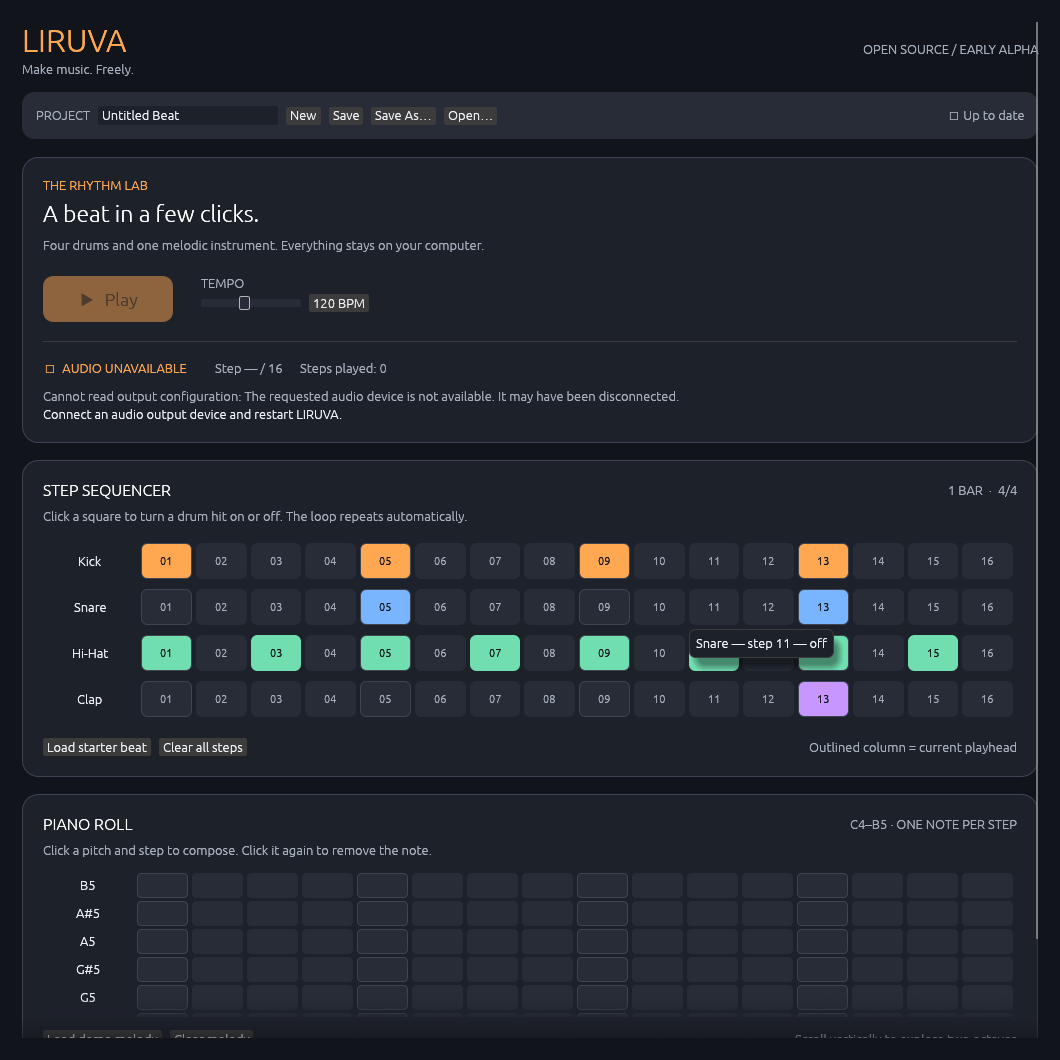
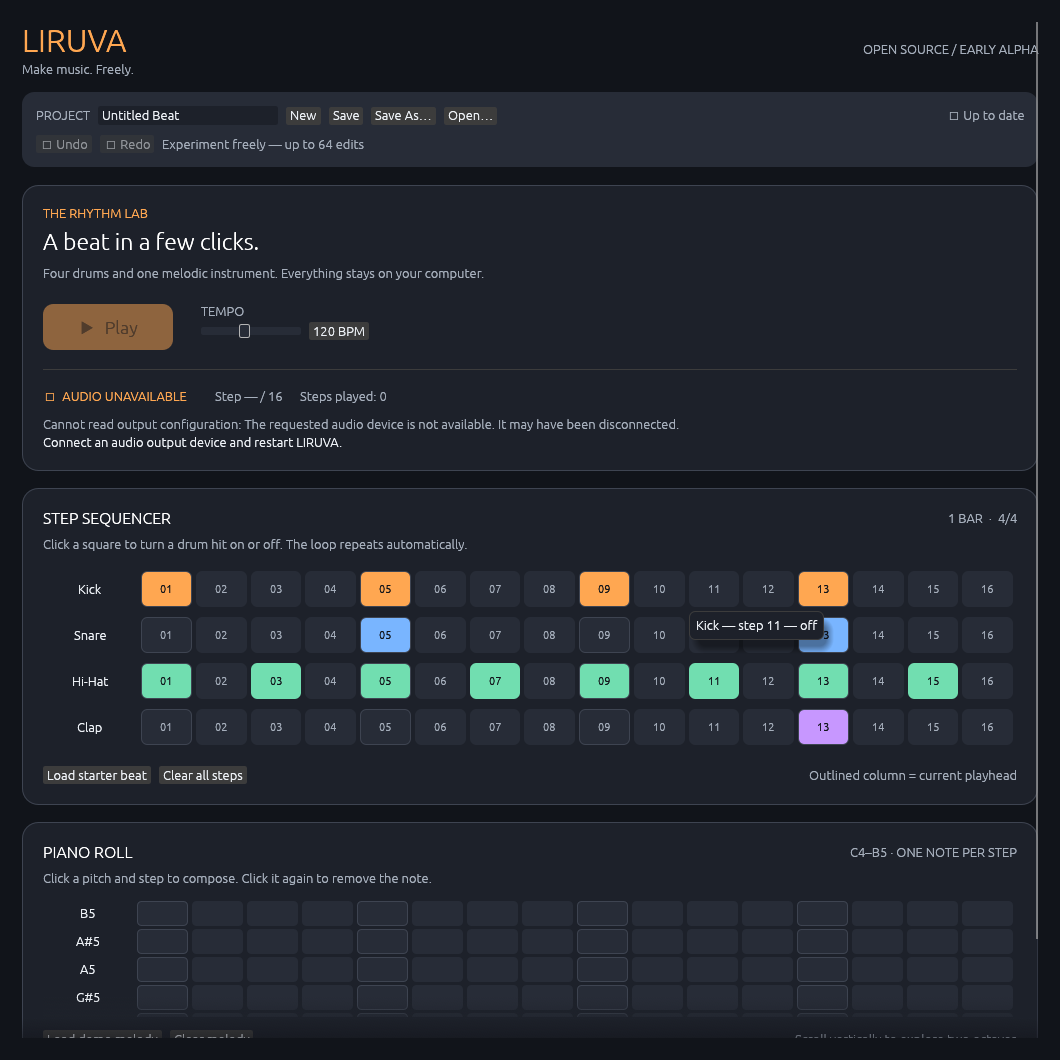
docs: refresh README with actual running Undo/Redo UI screenshot

diff --git a/README.md b/README.md
@@ -15,7 +15,7 @@ LIRUVA has its own original implementation, dark interface, and identity. It is 
 
 ![LIRUVA dark desktop application running on Linux, showing the 16-step drum sequencer and melodic piano roll](docs/screenshots/liruva-dark-studio.png)
 
-*Real screenshot of the Rust/egui desktop application running under a virtual Linux display. Captured automatically in [GitHub Actions](https://github.com/edujbarrios/liruva/actions/runs/38187972064)—not a concept render or an edited mockup. The virtual display has no physical audio output device, so the screenshot correctly shows “Audio unavailable.” Real speaker playback and native file dialogs still require desktop smoke testing.*
+*Real screenshot of the Rust/egui desktop application running under a virtual Linux display. Captured automatically in [GitHub Actions](https://github.com/edujbarrios/liruva/actions/runs/38319643985)—not a concept render or an edited mockup. The virtual display has no physical audio output device, so the screenshot correctly shows “Audio unavailable.” Real speaker playback and native file dialogs still require desktop smoke testing.*
 
 ## Development status — Early alpha (Milestone 3.2)
 
